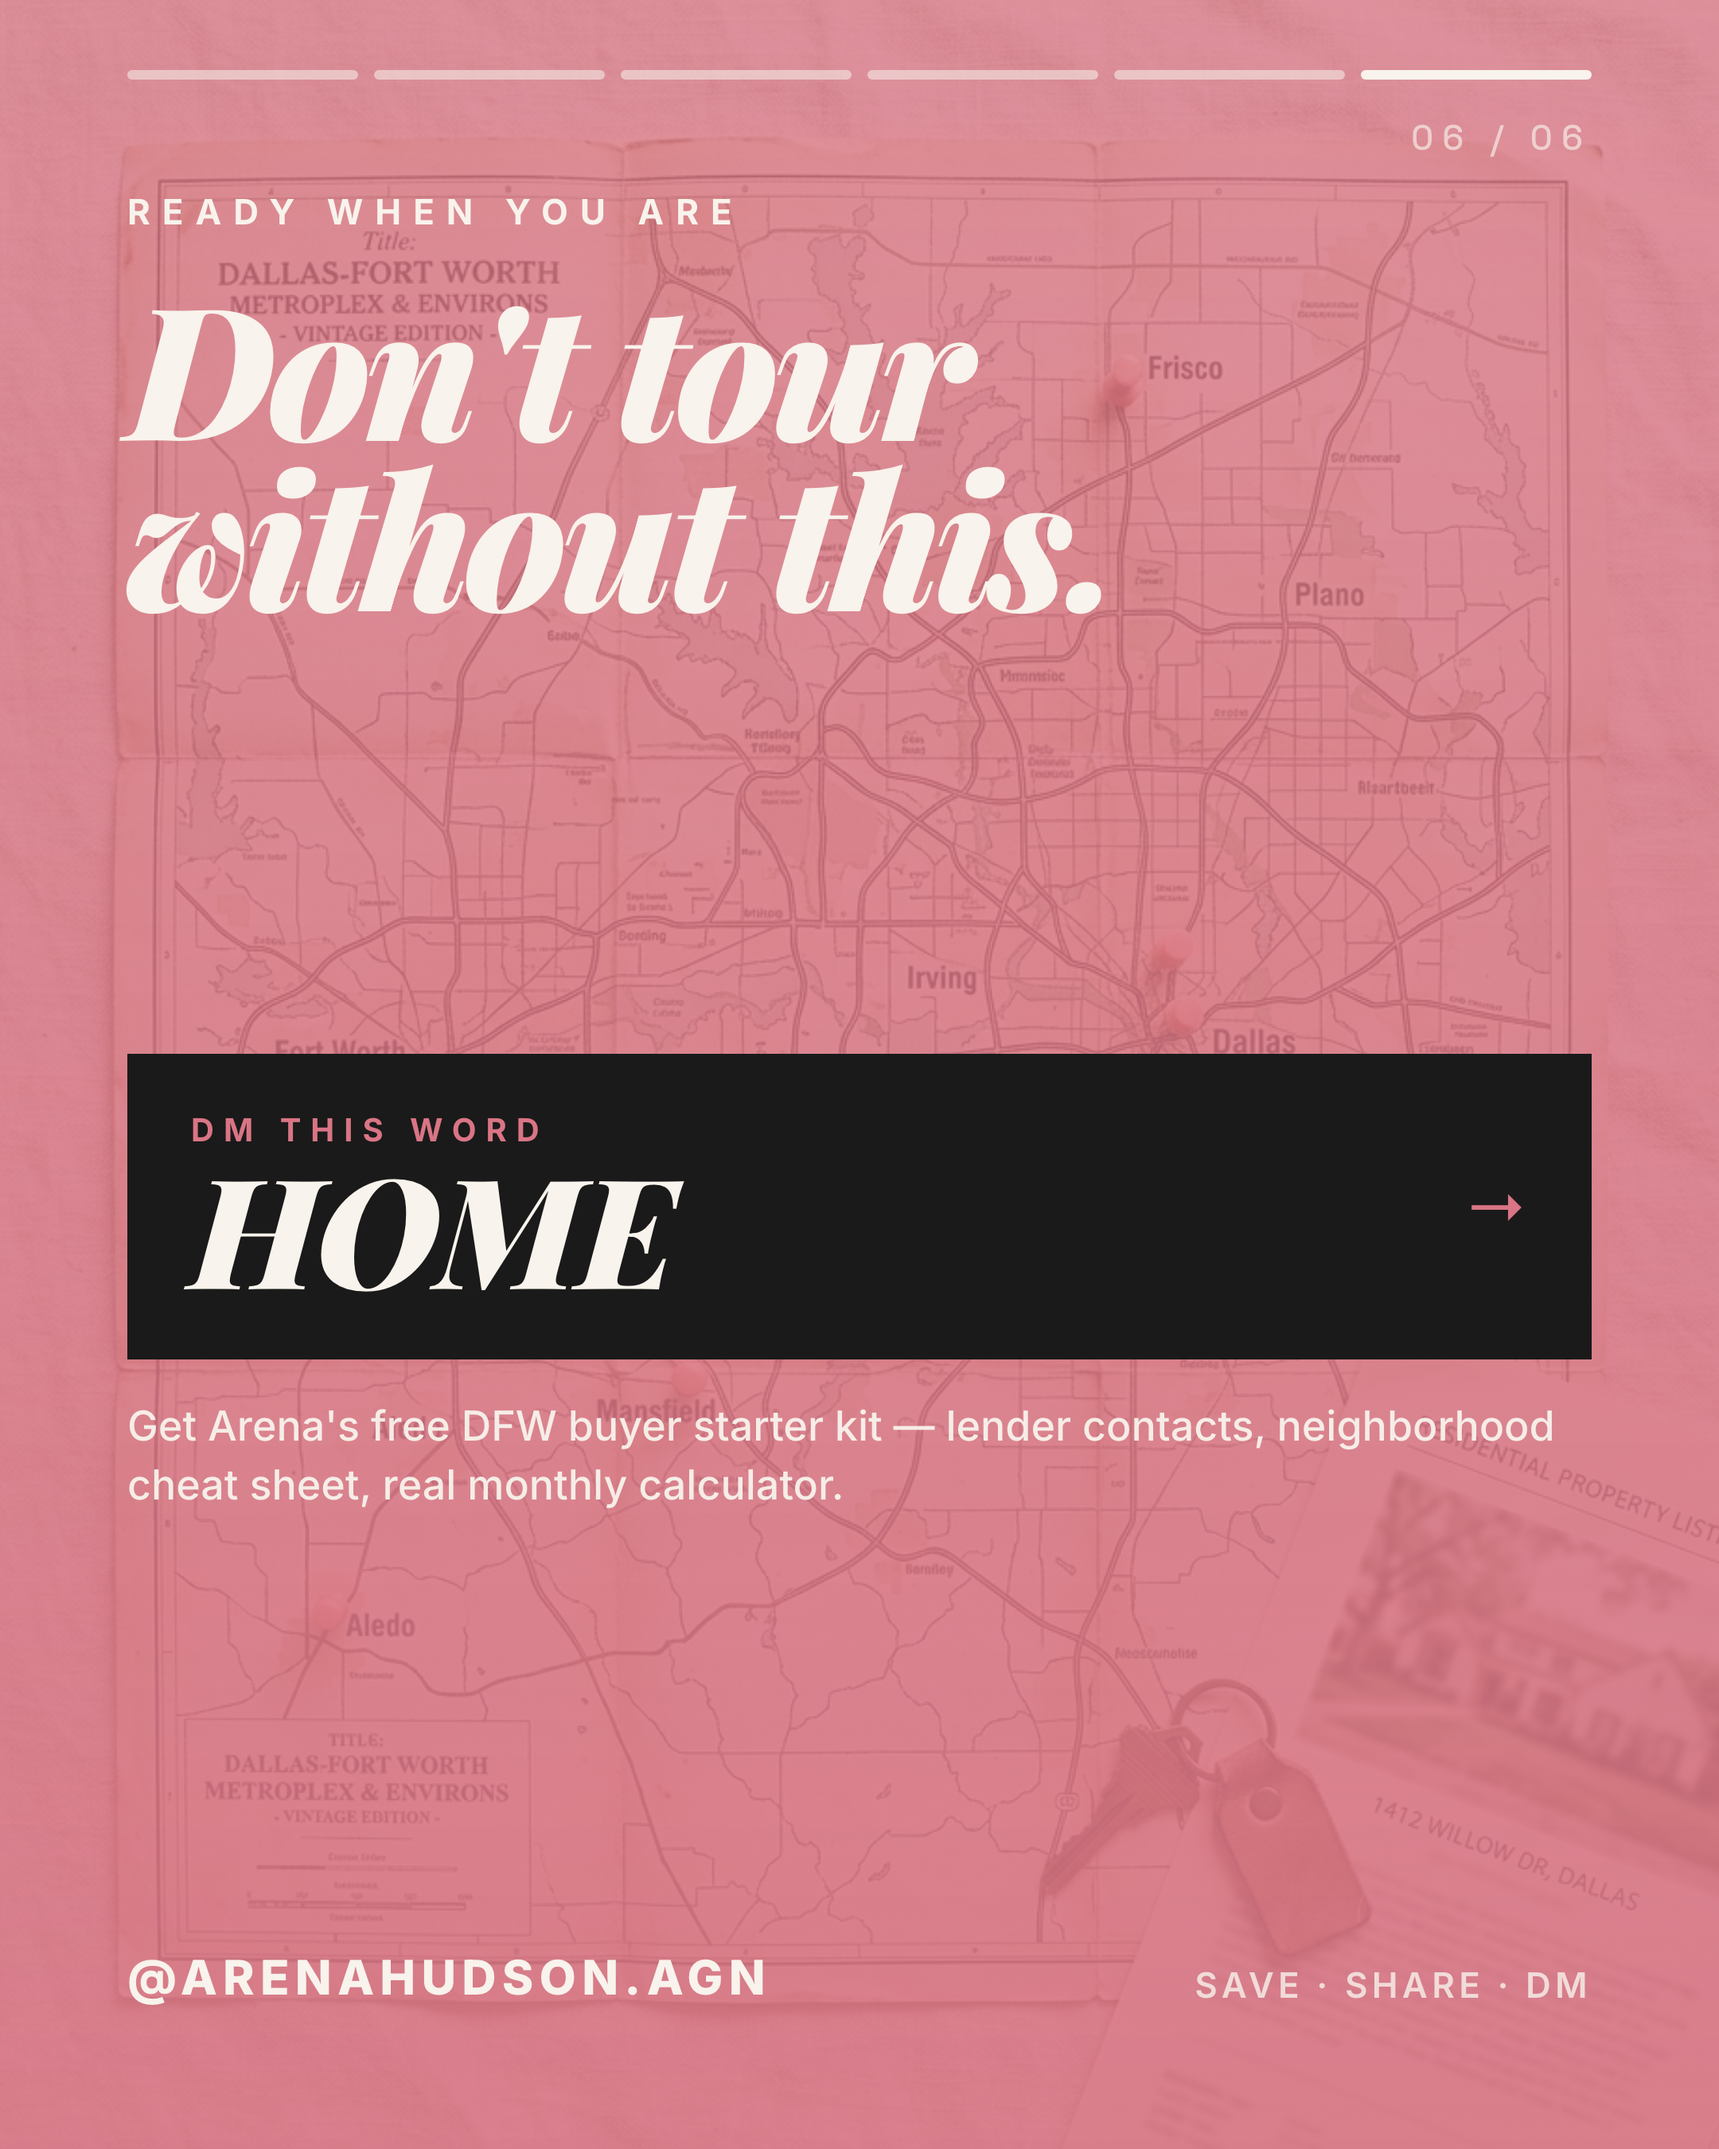
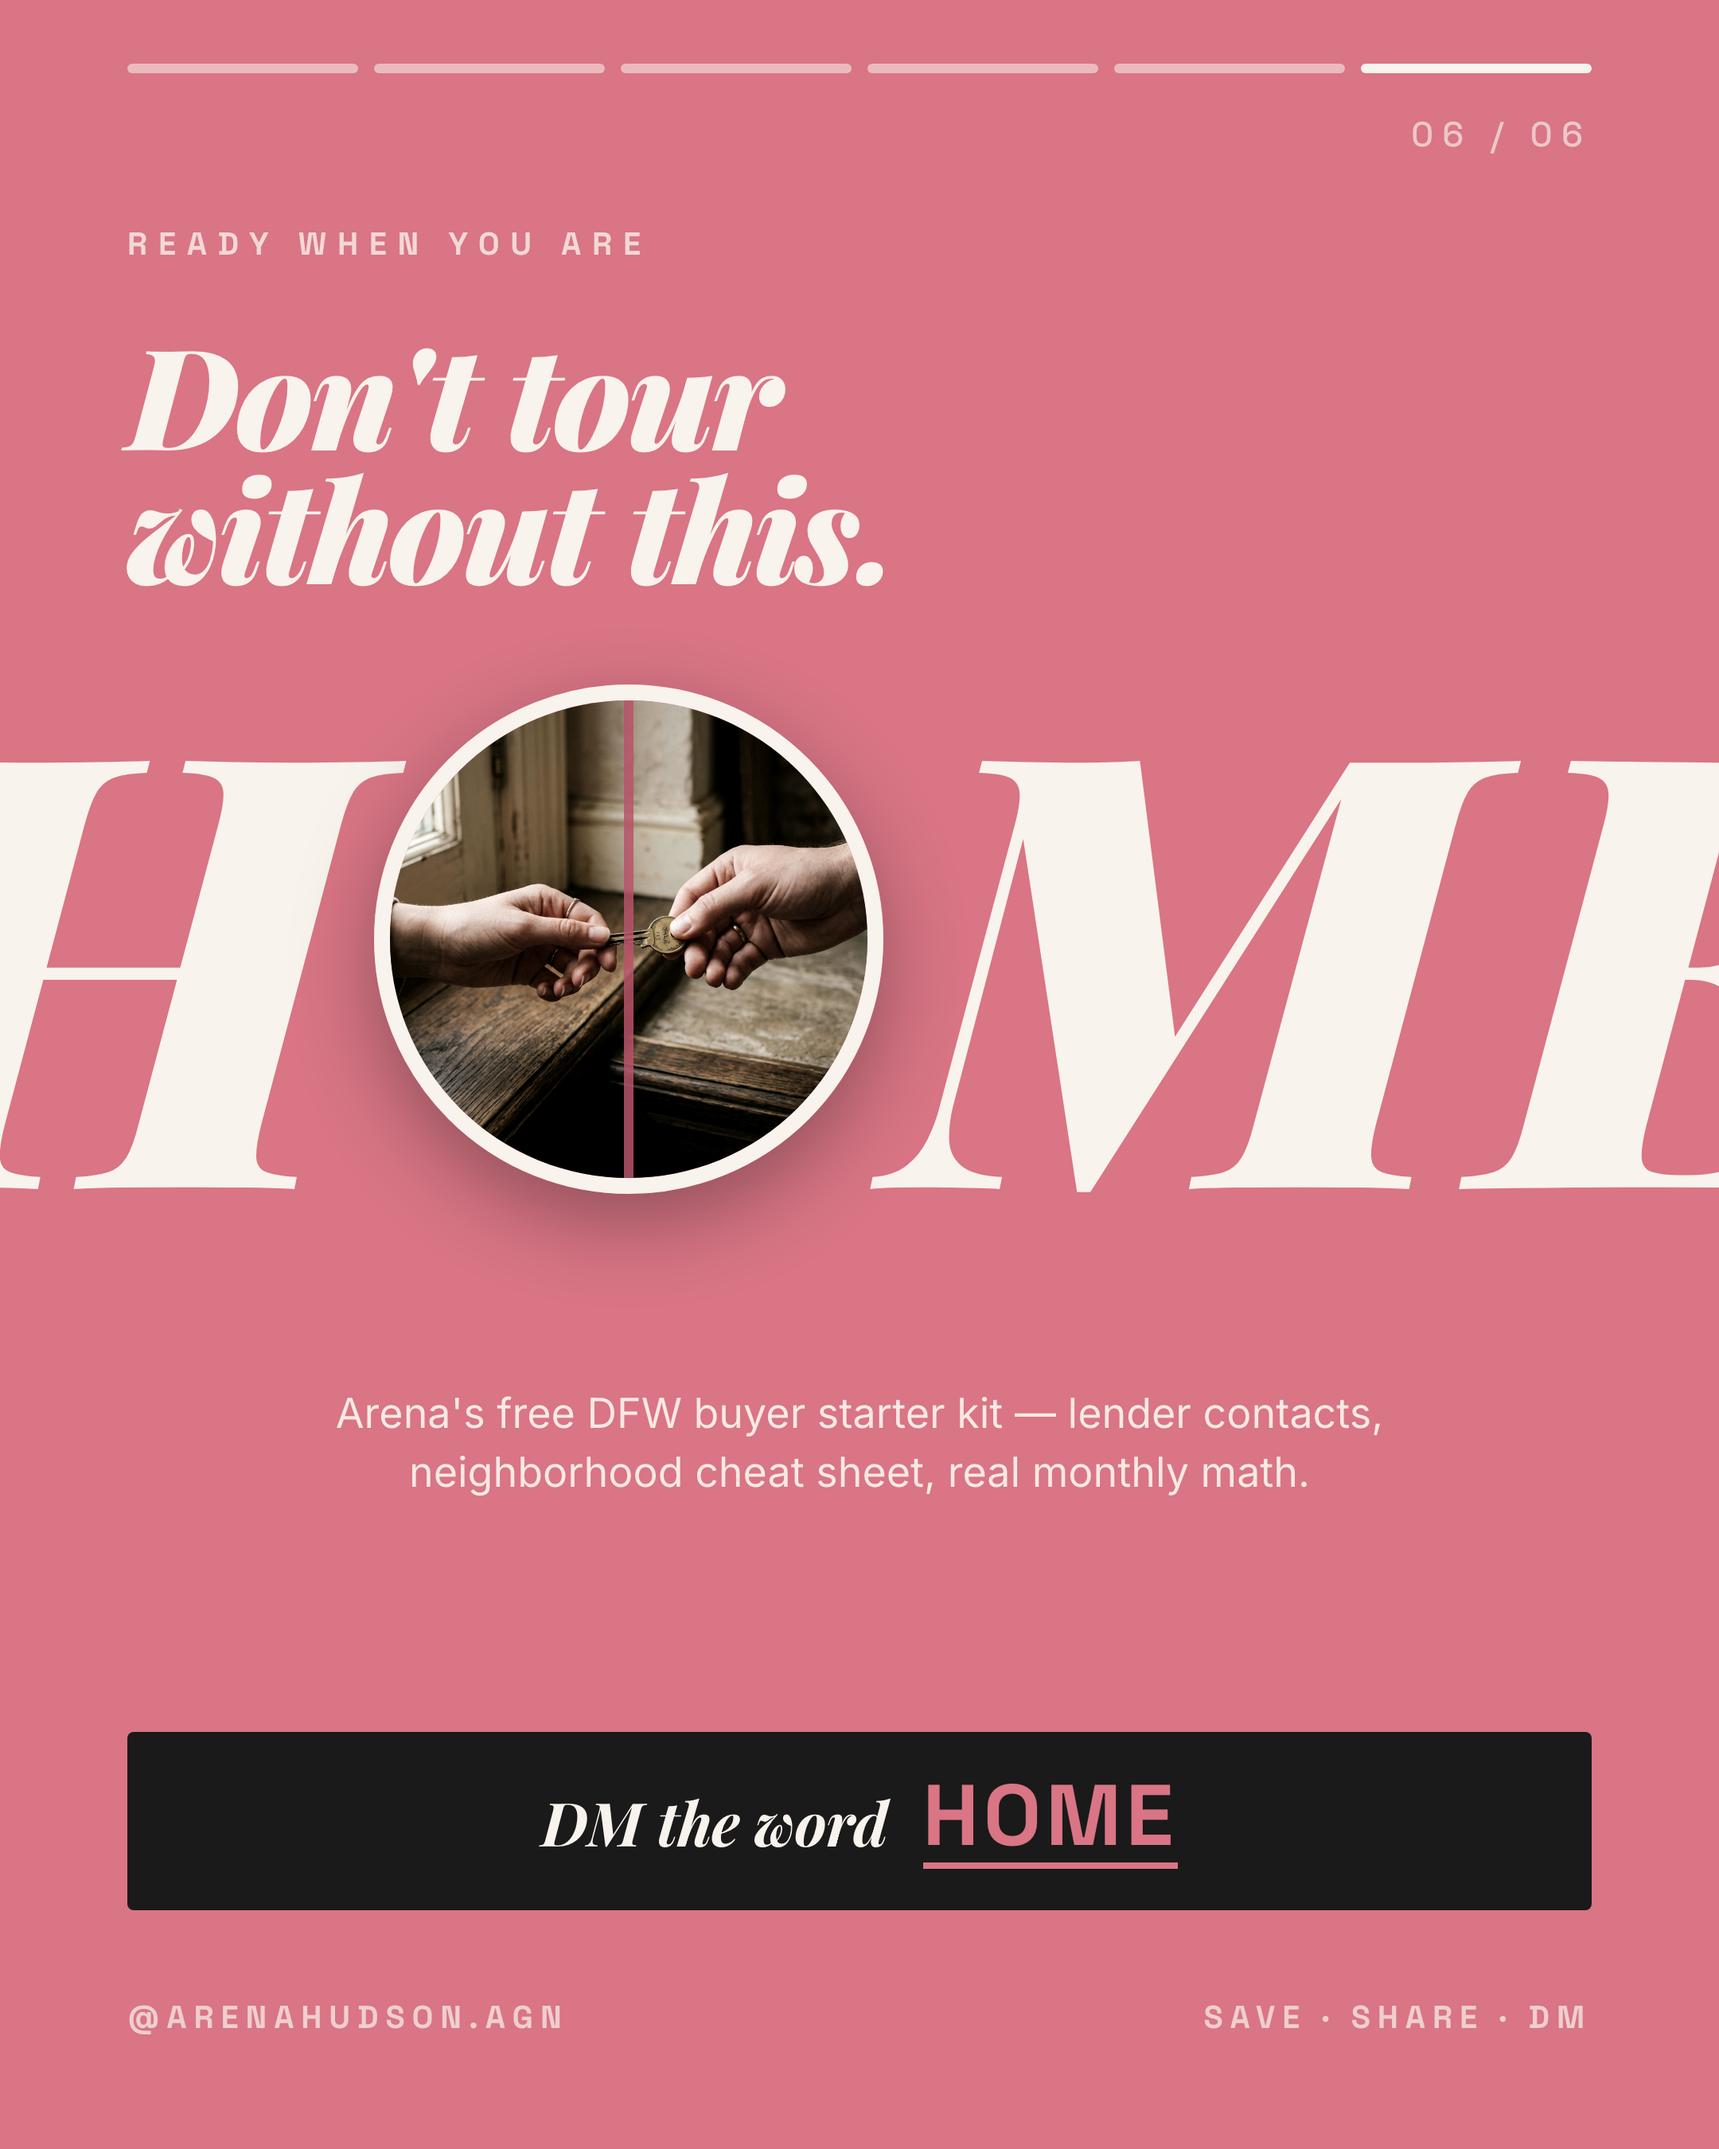
Slide 6: 'The Keybox' — H·[peephole]·M·E with key-handoff photo inside the O

diff --git a/assets/carousel-demo/slides.html b/assets/carousel-demo/slides.html
@@ -609,33 +609,152 @@
     line-height: 1;
   }
 
-  /* ───── SLIDE 6 · CTA ───── */
+  /* ───── SLIDE 6 · THE KEYBOX ───── */
   .cta {
     background: var(--coral);
     color: var(--cream);
-    justify-content: space-between;
-  }
-  .cta .map-bg {
-    position: absolute;
-    top: 0; left: 0; right: 0; bottom: 0;
-    z-index: 0;
+    padding: 0;
     overflow: hidden;
   }
-  .cta .map-bg img {
+  .cta .progress { position: absolute; top: 40px; left: 80px; right: 80px; z-index: 10; }
+  .cta .slide-num { position: absolute; top: 70px; right: 80px; z-index: 10; color: rgba(248,243,236,0.65); }
+  .cta .eyebrow-cta {
+    position: absolute;
+    top: 140px;
+    left: 80px;
+    right: 80px;
+    font-family: 'Space Grotesk', monospace;
+    font-size: 20px;
+    letter-spacing: 0.34em;
+    text-transform: uppercase;
+    color: rgba(248,243,236,0.78);
+    font-weight: 700;
+    z-index: 5;
+  }
+  .cta .subhead {
+    position: absolute;
+    top: 205px;
+    left: 80px;
+    right: 80px;
+    font-family: 'Playfair Display', serif;
+    font-style: italic;
+    font-weight: 900;
+    font-size: 88px;
+    line-height: 0.96;
+    letter-spacing: -0.025em;
+    color: var(--cream);
+    z-index: 5;
+  }
+  .home-word {
+    position: absolute;
+    top: 430px;
+    left: 0;
+    right: 0;
+    display: flex;
+    justify-content: center;
+    align-items: center;
+    gap: 10px;
+    font-family: 'Playfair Display', serif;
+    font-style: italic;
+    font-weight: 900;
+    color: var(--cream);
+    letter-spacing: -0.02em;
+    z-index: 5;
+  }
+  .home-word .letter {
+    font-size: 380px;
+    line-height: 0.82;
+    flex-shrink: 0;
+  }
+  .home-word .peephole {
+    position: relative;
+    width: 320px;
+    height: 320px;
+    min-width: 320px;
+    border-radius: 50%;
+    overflow: hidden;
+    flex-shrink: 0;
+    border: 10px solid var(--cream);
+    box-shadow:
+      0 18px 50px rgba(14,14,14,0.35),
+      inset 0 0 0 4px rgba(217,117,133,0.3);
+    z-index: 6;
+  }
+  .home-word .peephole img {
     width: 100%; height: 100%;
     object-fit: cover;
-    display: block;
-    mix-blend-mode: multiply;
-    opacity: 0.35;
-    filter: saturate(0.8);
+    filter: saturate(0.7) contrast(1.08);
   }
-  .cta .map-bg::after {
+  .home-word .peephole::after {
     content: ''; position: absolute;
-    top: 0; left: 0; right: 0; bottom: 0;
-    background: linear-gradient(180deg, rgba(217,117,133,0.35) 0%, rgba(217,117,133,0.72) 100%);
+    top: 0; left: 50%;
+    width: 6px; height: 100%;
+    background: var(--coral-dark);
+    transform: translateX(-50%);
+    z-index: 3;
+    opacity: 0.85;
   }
-  .cta > *:not(.map-bg) { z-index: 2; }
-  .cta .top, .cta .middle, .cta .bottom { position: relative; }
+  .cta-body {
+    position: absolute;
+    top: 870px;
+    left: 80px;
+    right: 80px;
+    font-family: 'Inter', sans-serif;
+    font-size: 26px;
+    line-height: 1.42;
+    color: rgba(248,243,236,0.92);
+    font-weight: 400;
+    text-align: center;
+    max-width: 820px;
+    margin: 0 auto;
+    z-index: 5;
+  }
+  .cta-bar {
+    position: absolute;
+    bottom: 150px;
+    left: 80px;
+    right: 80px;
+    background: var(--ink);
+    padding: 26px 34px;
+    display: flex;
+    align-items: center;
+    justify-content: center;
+    gap: 22px;
+    z-index: 5;
+    border-radius: 4px;
+  }
+  .cta-bar .prefix {
+    font-family: 'Playfair Display', serif;
+    font-style: italic;
+    font-weight: 700;
+    font-size: 38px;
+    color: var(--cream);
+    letter-spacing: -0.01em;
+  }
+  .cta-bar .word {
+    font-family: 'Space Grotesk', monospace;
+    font-weight: 700;
+    font-size: 54px;
+    color: var(--coral);
+    letter-spacing: 0.05em;
+    border-bottom: 4px solid var(--coral);
+    padding-bottom: 2px;
+    line-height: 1;
+  }
+  .cta .footer-row {
+    position: absolute;
+    bottom: 70px;
+    left: 80px;
+    right: 80px;
+    display: flex; justify-content: space-between;
+    font-family: 'Space Grotesk', monospace;
+    font-size: 20px;
+    letter-spacing: 0.22em;
+    color: rgba(248,243,236,0.7);
+    font-weight: 600;
+    text-transform: uppercase;
+    z-index: 5;
+  }
   /* (decorative circle removed) */
   .cta .top {
     display: flex; flex-direction: column; gap: 30px;
@@ -816,29 +935,27 @@
   <div class="slide-num">05 / 06</div>
 </div>
 
-<!-- ═══ SLIDE 6 · CTA ═══ -->
+<!-- ═══ SLIDE 6 · THE KEYBOX ═══ -->
 <div class="slide cta" id="slide-6">
-  <div class="map-bg"><img src="dfw-map-flatlay.png" alt=""></div>
   <div class="progress"><div class="seg past"></div><div class="seg past"></div><div class="seg past"></div><div class="seg past"></div><div class="seg past"></div><div class="seg filled"></div></div>
-  <div class="top">
-    <div class="eyebrow">READY WHEN YOU ARE</div>
-    <h2>Don't tour<br/>without this.</h2>
-  </div>
-  <div class="middle">
-    <div class="dm-box">
-      <div>
-        <div class="label">DM THIS WORD</div>
-        <div class="word">HOME</div>
-      </div>
-      <div class="arrow">→</div>
-    </div>
-    <div class="perk">Get Arena's free DFW buyer starter kit — lender contacts, neighborhood cheat sheet, real monthly calculator.</div>
-  </div>
-  <div class="bottom">
-    <div class="handle">@ARENAHUDSON.AGN</div>
-    <div class="save">SAVE · SHARE · DM</div>
-  </div>
   <div class="slide-num">06 / 06</div>
+  <div class="eyebrow-cta">Ready when you are</div>
+  <div class="subhead">Don't tour<br/>without this.</div>
+  <div class="home-word">
+    <span class="letter">H</span>
+    <div class="peephole"><img src="key-handoff.png" alt=""></div>
+    <span class="letter">M</span>
+    <span class="letter">E</span>
+  </div>
+  <div class="cta-body">Arena's free DFW buyer starter kit — lender contacts, neighborhood cheat sheet, real monthly math.</div>
+  <div class="cta-bar">
+    <span class="prefix">DM the word</span>
+    <span class="word">HOME</span>
+  </div>
+  <div class="footer-row">
+    <span>@ARENAHUDSON.AGN</span>
+    <span>SAVE · SHARE · DM</span>
+  </div>
 </div>
 
 </body>
